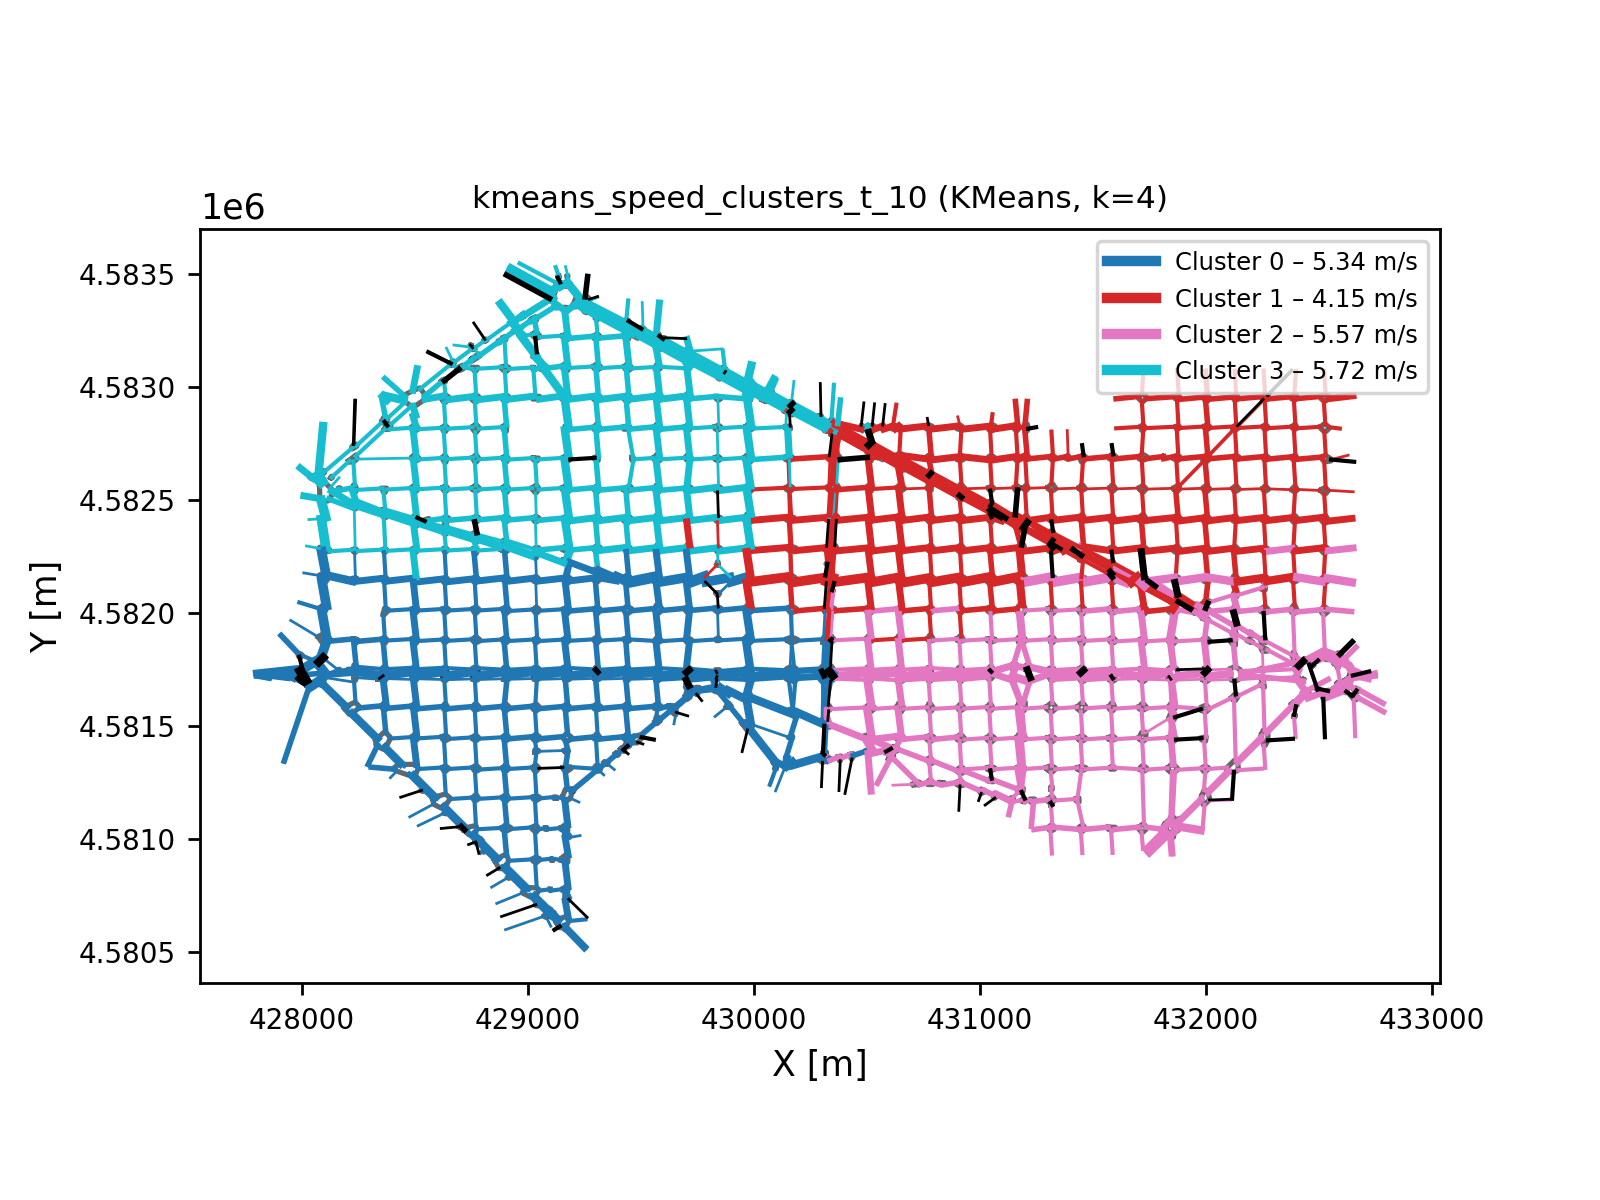
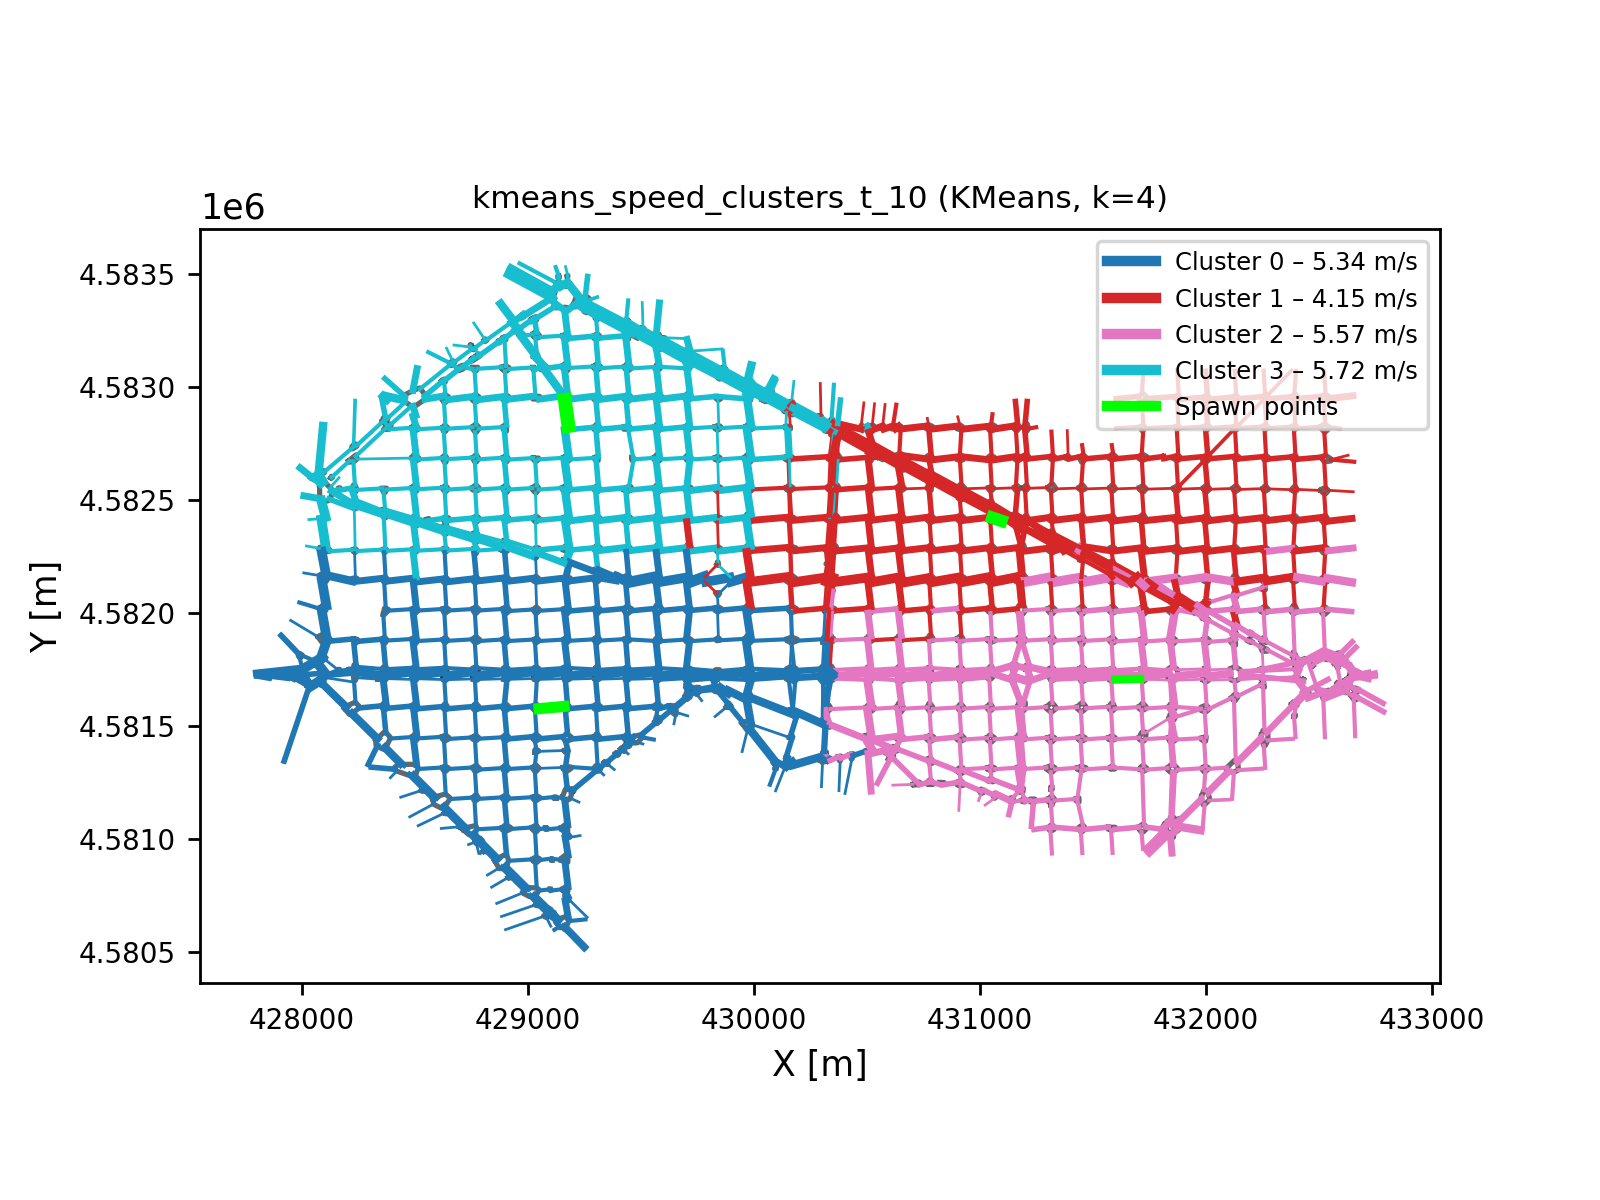
Spawn points plot

diff --git a/main.py b/main.py
@@ -414,6 +414,7 @@ def kmeans_clustering(n_clusters, name, feature_type, random_state=42, threshold
     #
     # `labels` is therefore a 1-D integer array of length n_links where
     # labels[i] is the cluster index (0 … n_clusters-1) of the i-th road link.
+    spawn_links = []
     
     if init_links is not None:
         if len(init_links) != int(n_clusters):
@@ -437,8 +438,19 @@ def kmeans_clustering(n_clusters, name, feature_type, random_state=42, threshold
     )
         
     labels = kmeans.fit_predict(X)
+    centroids = kmeans.cluster_centers_
                                 
-                                
+    if init_links is None:
+        for k in range(n_clusters):
+            cluster_idx = np.where(labels == k)[0]
+            cluster_points = X[cluster_idx]
+            centroid = centroids[k]
+
+            distances = np.linalg.norm(cluster_points - centroid, axis=1)
+            closest_idx = cluster_idx[np.argmin(distances)]
+
+            spawn_links.append(closest_idx)
+                                   
                                 
                                 
     
@@ -495,30 +507,52 @@ def kmeans_clustering(n_clusters, name, feature_type, random_state=42, threshold
     # same colour regardless of where they sit in the network.
     # Line width encodes the number of lanes, providing an extra visual cue about
     # road hierarchy within each cluster.
+    
+    # PLOT LINKS
     for idx, row in plot_links.iterrows():
-        z = 1
         x, y = sublink(row)
-        color = cluster_colors[int(row["cluster"])]  # color = cluster label
+
+        color = cluster_colors[int(row["cluster"])]
+        z = 1
+
         if idx in threshold:
             color = "black"
-            z = 3 
-        ax.plot(x, y, c=color, linewidth = 0.4 + row["num_lanes"] * 0.4, zorder = z)
+            z = 3
+
+        ax.plot(x, y, c=color, linewidth=0.4 + row["num_lanes"] * 0.4, zorder=z)
+
+
+    # PLOT SPAWN LINKS
+    all_spawn = []
     
+    if len(spawn_links) != 0:
+        all_spawn.extend(spawn_links)
+
     if init_links is not None:
-        for idx in init_links:
-            row = plot_links.iloc[idx]
-            z = 4
-            x, y = sublink(row)
-            color = "lime"  # color = cluster label
-            ax.plot(x, y, c=color, linewidth = 2 + row["num_lanes"] * 0.4, zorder = z)   
-         
-    ### FILTER ###
+        all_spawn.extend(init_links)
+
+    for idx in set(all_spawn): 
+        row = plot_links.iloc[idx]
+        x, y = sublink(row)
+
+        ax.plot(
+            x, y,
+            c="lime",
+            linewidth=2 + row["num_lanes"] * 0.4,
+            zorder=4
+        )
+
+
+    # Filter (si activé) 
     if filter:
         for idx, row in links.loc[threshold].iterrows():
-            x, y = sublink(row)  # color = cluster label
-            color = "black"
-            z = 3 
-            ax.plot(x, y, c=color, linewidth = 0.4 + row["num_lanes"] * 0.4, zorder = z)
+            x, y = sublink(row)
+            ax.plot(
+                x, y,
+                c="black",
+                linewidth=0.4 + row["num_lanes"] * 0.4,
+                zorder=3
+            )
     ##############
     
     # ── Overlay intersection polygons for spatial context ──────────────────────
@@ -550,7 +584,9 @@ def kmeans_clustering(n_clusters, name, feature_type, random_state=42, threshold
                 label=f"Cluster {k} – {mean_speed_real:.2f} m/s"
             )
         )
-
+    handles.append(
+    plt.Line2D([0], [0], color="lime", lw=3, label="Spawn points")
+)
     ax.legend(handles=handles, fontsize=7, loc="upper right")
 
     # ── Save ───────────────────────────────────────────────────────────────────
@@ -1395,37 +1431,6 @@ def closest_link(x, y):
 
 
 
-x_min_lim = np.min(links["from_x"])
-x_max_lim = np.max(links["to_x"])
-y_min_lim = np.min(links["from_y"])
-y_max_lim = np.max(links["to_y"])
-
-x25 = x_min_lim + 0.25 * (x_max_lim - x_min_lim)
-x50 = x_min_lim + 0.5 * (x_max_lim - x_min_lim)
-x75 = x_min_lim + 0.75 * (x_max_lim - x_min_lim)
-
-
-y25 = y_min_lim + 0.25 * (y_max_lim - y_min_lim)
-y50 = y_min_lim + 0.5 * (y_max_lim - y_min_lim)
-y75 = y_min_lim + 0.75 * (y_max_lim - y_min_lim)
-
-xs1 = [x25, x75]
-ys1 = [y25, y75]
-
-xs2 = [x50]
-ys2 = [y25, y75]
-
-xs3 = [x25, x75]
-ys3 = [y50]
-
-links_spawn_1 = [(x, y) for x in xs1 for y in ys1]
-links_spawn_2 = [(x, y) for x in xs2 for y in ys2]
-links_spawn_3 = [(x, y) for x in xs3 for y in ys3]
-
-init_links_1 = [closest_link(x, y) for x, y in links_spawn_1]
-init_links_2 = [closest_link(x, y) for x, y in links_spawn_2]
-init_links_3 = [closest_link(x, y) for x, y in links_spawn_3]
-
     
 
 
@@ -1480,24 +1485,70 @@ th = thresholds(max_speed=2, max_length=np.inf)
 
 ##################### CLUSTERS SPAWN POINTS/AMOUNT #####################
 
+
+x_min_lim = np.min(links["from_x"])
+x_max_lim = np.max(links["to_x"])
+y_min_lim = np.min(links["from_y"])
+y_max_lim = np.max(links["to_y"])
+
+x25 = x_min_lim + 0.25 * (x_max_lim - x_min_lim)
+x50 = x_min_lim + 0.5 * (x_max_lim - x_min_lim)
+x75 = x_min_lim + 0.75 * (x_max_lim - x_min_lim)
+
+
+y25 = y_min_lim + 0.25 * (y_max_lim - y_min_lim)
+y50 = y_min_lim + 0.5 * (y_max_lim - y_min_lim)
+y75 = y_min_lim + 0.75 * (y_max_lim - y_min_lim)
+
+xs1 = [x25, x75]
+ys1 = [y25, y75]
+
+xs2 = [x50]
+ys2 = [y25, y75]
+
+xs3 = [x25, x75]
+ys3 = [y50]
+
+links_spawn_1 = [(x, y) for x in xs1 for y in ys1]
+links_spawn_2 = [(x, y) for x in xs2 for y in ys2]
+links_spawn_3 = [(x, y) for x in xs3 for y in ys3]
+
+init_links_1 = [closest_link(x, y) for x, y in links_spawn_1]
+init_links_2 = [closest_link(x, y) for x, y in links_spawn_2]
+init_links_3 = [closest_link(x, y) for x, y in links_spawn_3]
+
+
 cluster_amount = list(range(2,8,1))
 
-# for i in cluster_amount:
-#     kmeans_clustering(i, "kmeans_speed_clusters", "speed", threshold=th)
-#     kmeans_clustering(i, "kmeans_speed_clusters_t_10", "speed", threshold=th, timeframe=10)
-#     kmeans_clustering(i, "kmeans_speed_clusters_t_30", "speed", threshold=th, timeframe=30)
 
-kmeans_clustering(5, "kmeans_speed_clusters_t_10_set_spawn", "speed", threshold=th, timeframe=10, init_links=init_links_1)
-# kmeans_clustering(len(init_links_2), "kmeans_speed_clusters_t_10_set_spawn", "speed", threshold=th, timeframe=10, init_links=init_links_2)
-# kmeans_clustering(len(init_links_3), "kmeans_speed_clusters_t_10_set_spawn", "speed", threshold=th, timeframe=10, init_links=init_links_3)
+for i in cluster_amount:
+    kmeans_clustering(i, "kmeans_speed_clusters", "speed")
+    kmeans_clustering(i, "kmeans_speed_clusters_t_10", "speed", timeframe=10)
+    kmeans_clustering(i, "kmeans_speed_clusters_t_30", "speed", timeframe=30)
 
-# for i in cluster_amount:
+kmeans_clustering(5, "kmeans_speed_clusters_t_10_set_spawn", "speed", timeframe=10, init_links=init_links_1)
+kmeans_clustering(len(init_links_2), "kmeans_speed_clusters_t_10_set_spawn", "speed",  timeframe=10, init_links=init_links_2)
+kmeans_clustering(len(init_links_3), "kmeans_speed_clusters_t_10_set_spawn", "speed",  timeframe=10, init_links=init_links_3)
 
 
-# kmeans_clustering(len(init_links_1), "kmeans_speed_clusters_t_30_set_spawn", "speed", threshold=th, timeframe=30, init_links=init_links_1)
-# kmeans_clustering(len(init_links_2), "kmeans_speed_clusters_t_30_set_spawn", "speed", threshold=th, timeframe=30, init_links=init_links_2)
-# kmeans_clustering(len(init_links_3), "kmeans_speed_clusters_t_30_set_spawn", "speed", threshold=th, timeframe=30, init_links=init_links_3)
-
+kmeans_clustering(len(init_links_1), "kmeans_speed_clusters_t_30_set_spawn", "speed", timeframe=30, init_links=init_links_1)
+kmeans_clustering(len(init_links_2), "kmeans_speed_clusters_t_30_set_spawn", "speed", timeframe=30, init_links=init_links_2)
+kmeans_clustering(len(init_links_3), "kmeans_speed_clusters_t_30_set_spawn", "speed", timeframe=30, init_links=init_links_3)
 
 
 
+
+main_roads1 = [
+    closest_link(429250, 4581750),
+    closest_link(432200,4581900),
+    closest_link(430280, 4582250) 
+    ]
+
+kmeans_clustering(len(main_roads1), "kmeans_speed_clusters_t_30_set_spawn", "speed", timeframe=30, init_links=main_roads1)
+
+main_roads2 = [
+    closest_link(429250, 4581750),
+    closest_link(431250, 4582350)
+]
+
+kmeans_clustering(len(main_roads2), "kmeans_speed_clusters_t_30_set_spawn", "speed", timeframe=30, init_links=main_roads2)
